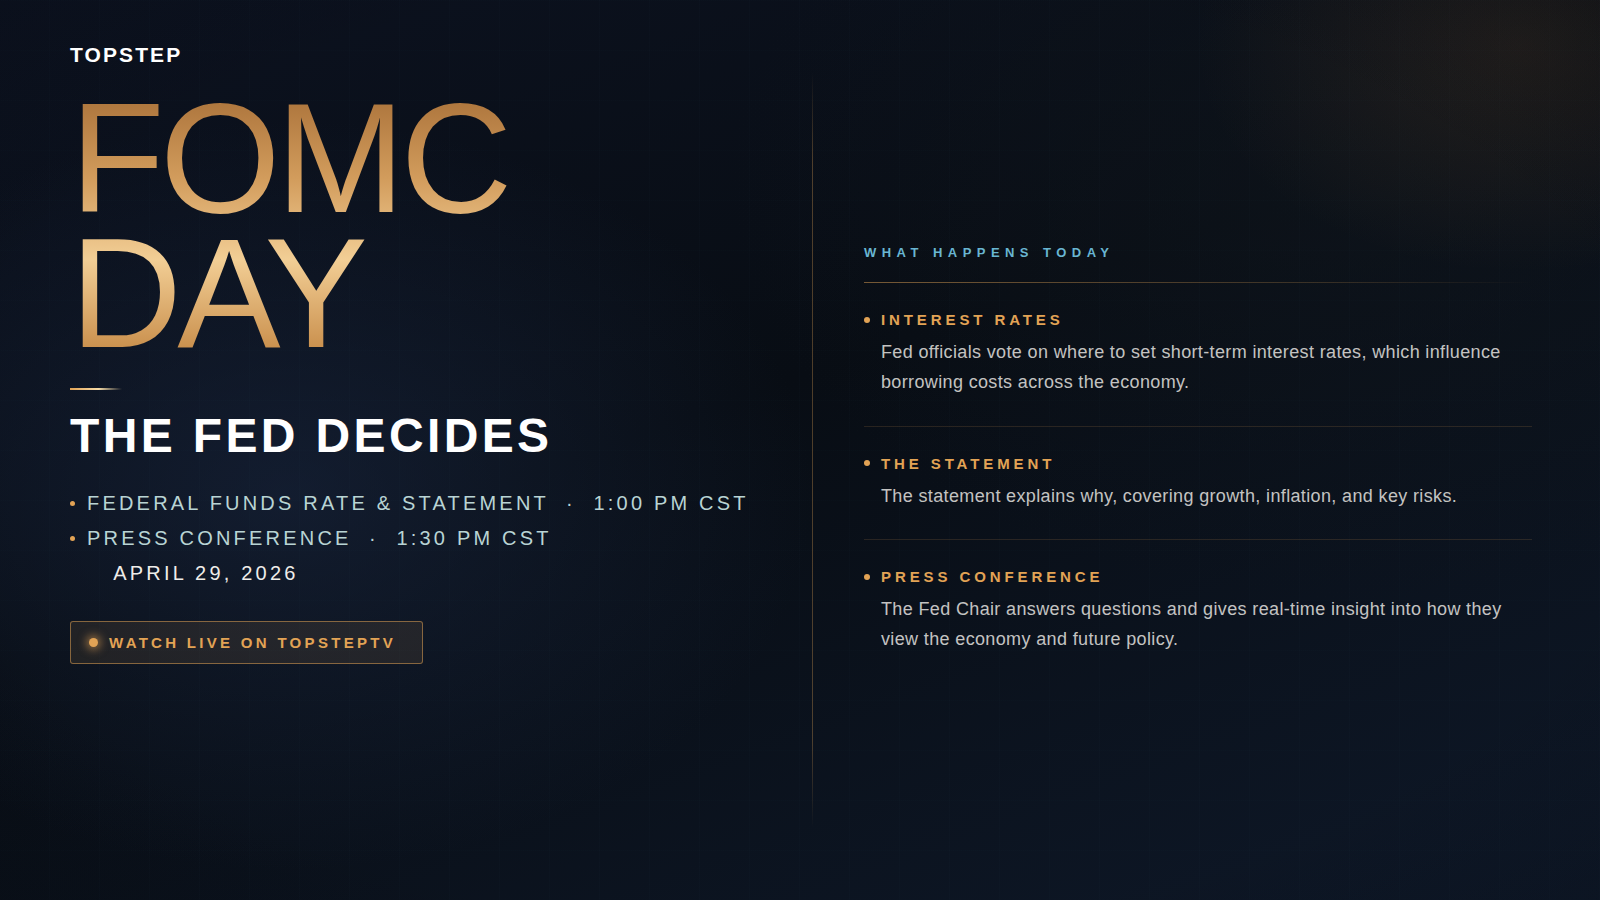
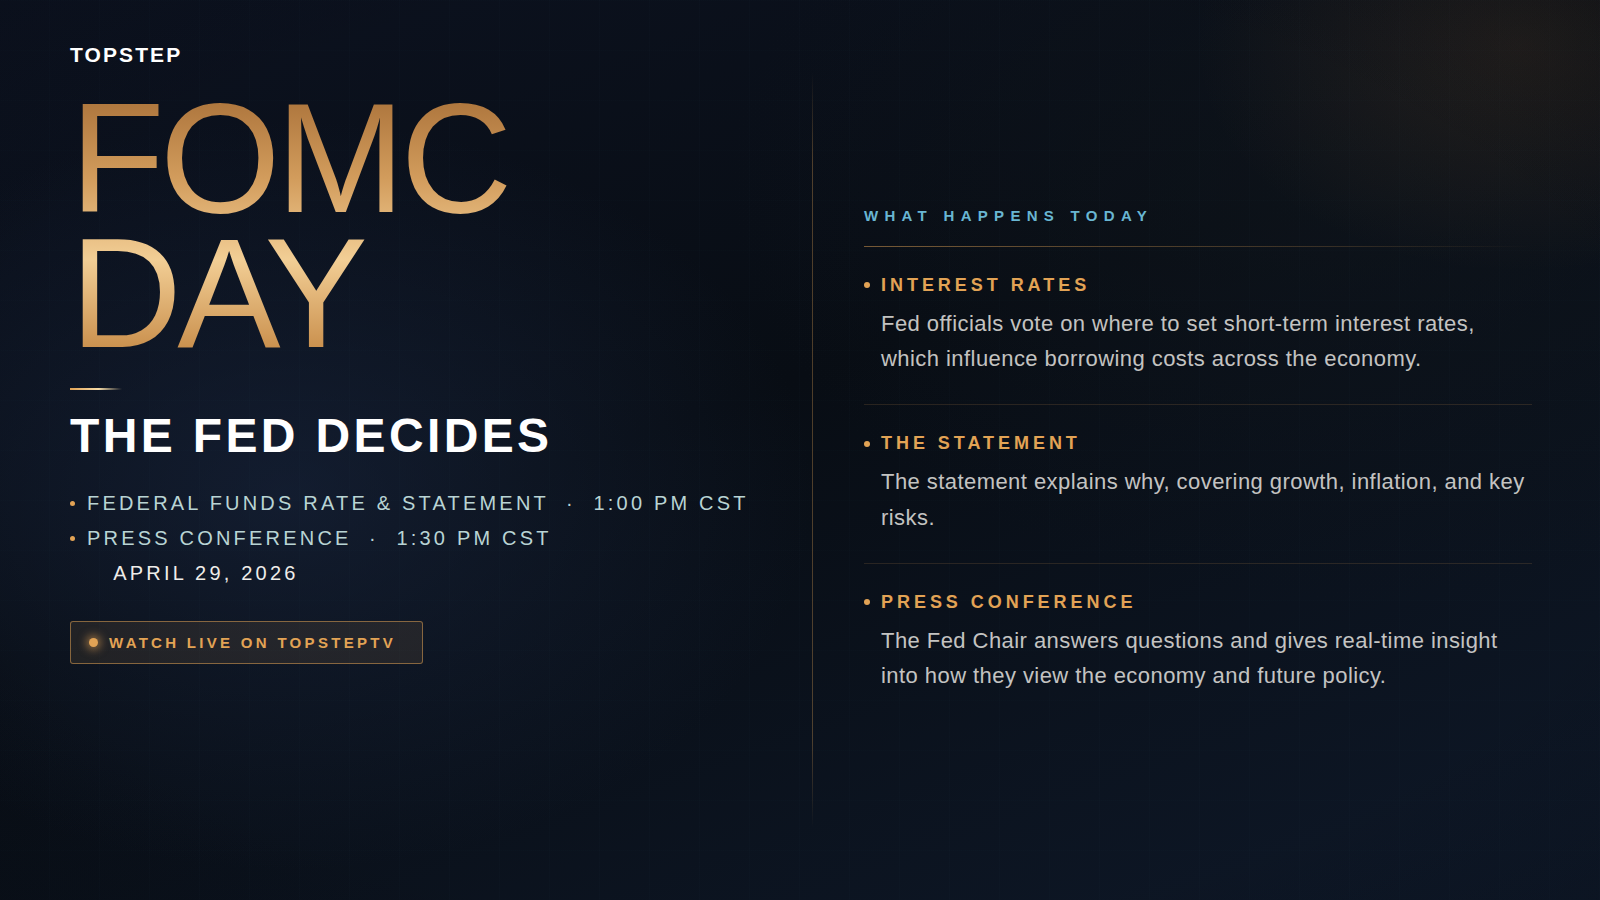
Increase 'What Happens Today' text sizes
- Body text: 18px → 22px
- Category titles: 15px → 18px
- Section label: 13px → 15px

https://claude.ai/code/session_01LDvWZueAZeo94jYbB9wQkH

Changed region(s): [[0.5312, 0.6222, 0.9375, 0.7778], [0.5312, 0.2178, 0.9375, 0.4356], [0.5312, 0.4667, 0.9688, 0.5911]]

diff --git a/fomc-day.html b/fomc-day.html
@@ -254,7 +254,7 @@
 
     .panel-label {
       font-weight: 600;
-      font-size: 13px;
+      font-size: 15px;
       letter-spacing: 0.42em;
       color: #69B6D2;
       text-transform: uppercase;
@@ -301,16 +301,16 @@
 
     .v-title {
       font-weight: 700;
-      font-size: 15px;
-      letter-spacing: 0.26em;
+      font-size: 18px;
+      letter-spacing: 0.22em;
       color: #E2A355;
       text-transform: uppercase;
     }
 
     .v-text {
       font-weight: 300;
-      font-size: 18px;
-      line-height: 1.65;
+      font-size: 22px;
+      line-height: 1.60;
       letter-spacing: 0.02em;
       color: rgba(239,237,233,0.82);
       padding-left: 17px;
